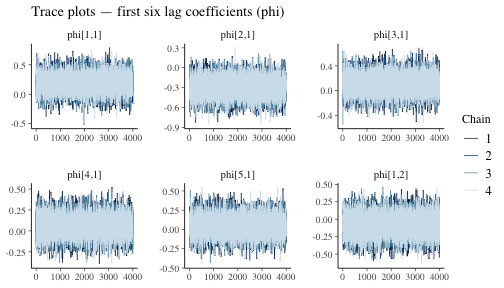
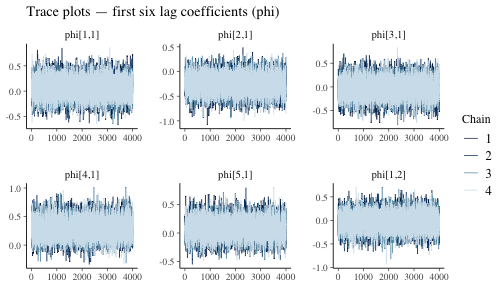
Deploying to gh-pages from @ flo1met/bvarnet@caa0c16dfb547cf6b879a68908194ce86c67e930 🚀

diff --git a/articles/MCMC-Diagnostics.html b/articles/MCMC-Diagnostics.html
@@ -126,7 +126,9 @@ are used throughout.</p>
 <span>  chains   <span class="op">=</span> <span class="fl">4</span>,</span>
 <span>  cores    <span class="op">=</span> <span class="fl">4</span>,</span>
 <span>  seed     <span class="op">=</span> <span class="fl">1337</span></span>
-<span><span class="op">)</span></span></code></pre></div>
+<span><span class="op">)</span></span>
+<span><span class="co">#&gt; Error:</span></span>
+<span><span class="co">#&gt; ! Stan model file "" not found.</span></span></code></pre></div>
 <div class="sourceCode" id="cb4"><pre class="downlit sourceCode r">
 <code class="sourceCode R"><span><span class="fu"><a href="https://rdrr.io/r/base/print.html" class="external-link">print</a></span><span class="op">(</span><span class="va">fit</span><span class="op">)</span></span>
 <span><span class="co">#&gt; BVAR Network fit</span></span>
@@ -134,15 +136,12 @@ are used throughout.</p>
 <span><span class="co">#&gt; Family:      ordinal</span></span>
 <span><span class="co">#&gt; Outcomes (p): 5 </span></span>
 <span><span class="co">#&gt; Lags (K):     1 </span></span>
-<span><span class="co">#&gt; Fixed eff.:   0 </span></span>
-<span><span class="co">#&gt; Observations: 147 </span></span>
+<span><span class="co">#&gt; Fixed eff.:   1 </span></span>
+<span><span class="co">#&gt; Observations: 111 </span></span>
 <span><span class="co">#&gt; Rhat max:    1.001</span></span>
-<span><span class="co">#&gt; Divergences: 1  WARNING: check model/priors.</span></span>
-<span><span class="co">#&gt; Priors:</span></span>
-<span><span class="co">#&gt;   beta   ~ Normal(0, 1)  (default)</span></span>
-<span><span class="co">#&gt;   phi    ~ Normal(0, 0.5)</span></span>
-<span><span class="co">#&gt;   kappa  ~ Normal(0, 1)</span></span>
-<span><span class="co">#&gt; Total time:  12.4 sec</span></span>
+<span><span class="co">#&gt; Divergences: 2  WARNING: check model/priors.</span></span>
+<span><span class="co">#&gt; Priors:       beta ~ Normal(0, 1), phi ~ Normal(0, 0.5), kappa ~ Normal(0, 2) (all defaults)</span></span>
+<span><span class="co">#&gt; Total time:  11.4 sec</span></span>
 <span><span class="co">#&gt; ========================================</span></span></code></pre></div>
 <hr>
 </div>
@@ -166,19 +165,19 @@ data frame with one row per parameter, alongside bulk-ESS and
 tail-ESS.</p>
 <div class="sourceCode" id="cb5"><pre class="downlit sourceCode r">
 <code class="sourceCode R"><span><span class="fu"><a href="https://rdrr.io/r/utils/head.html" class="external-link">head</a></span><span class="op">(</span><span class="va">fit</span><span class="op">$</span><span class="va">convergence</span><span class="op">)</span></span>
-<span><span class="co">#&gt;   variable      rhat ess_bulk  ess_tail</span></span>
-<span><span class="co">#&gt; 1     lp__ 1.0006264  5807.04  8763.894</span></span>
-<span><span class="co">#&gt; 2 phi[1,1] 1.0002434 19633.01 11959.170</span></span>
-<span><span class="co">#&gt; 3 phi[2,1] 0.9999424 16400.52 11459.448</span></span>
-<span><span class="co">#&gt; 4 phi[3,1] 0.9999472 19919.94 12271.959</span></span>
-<span><span class="co">#&gt; 5 phi[4,1] 1.0001548 29249.05 11530.322</span></span>
-<span><span class="co">#&gt; 6 phi[5,1] 1.0000761 18623.57 12379.016</span></span></code></pre></div>
+<span><span class="co">#&gt;   variable      rhat  ess_bulk  ess_tail</span></span>
+<span><span class="co">#&gt; 1     lp__ 1.0003156  6045.914  9175.511</span></span>
+<span><span class="co">#&gt; 2 phi[1,1] 1.0003620 16772.266 12193.655</span></span>
+<span><span class="co">#&gt; 3 phi[2,1] 1.0000410 12852.768 11468.216</span></span>
+<span><span class="co">#&gt; 4 phi[3,1] 1.0001652 13704.433 12188.622</span></span>
+<span><span class="co">#&gt; 5 phi[4,1] 0.9999057 19347.832 13118.487</span></span>
+<span><span class="co">#&gt; 6 phi[5,1] 1.0002715 16984.342 12402.253</span></span></code></pre></div>
 <p>A quick summary of the R-hat distribution across all parameters:</p>
 <div class="sourceCode" id="cb6"><pre class="downlit sourceCode r">
 <code class="sourceCode R"><span><span class="va">rhat_vals</span> <span class="op">&lt;-</span> <span class="va">fit</span><span class="op">$</span><span class="va">convergence</span><span class="op">$</span><span class="va">rhat</span></span>
 <span><span class="fu"><a href="https://rdrr.io/r/base/summary.html" class="external-link">summary</a></span><span class="op">(</span><span class="va">rhat_vals</span><span class="op">)</span></span>
 <span><span class="co">#&gt;    Min. 1st Qu.  Median    Mean 3rd Qu.    Max. </span></span>
-<span><span class="co">#&gt;  0.9999  1.0000  1.0001  1.0001  1.0002  1.0007</span></span></code></pre></div>
+<span><span class="co">#&gt;  0.9999  1.0001  1.0002  1.0002  1.0003  1.0007</span></span></code></pre></div>
 <hr>
 </div>
 <div class="section level2">
@@ -213,10 +212,10 @@ tail-ESS.</p>
 <span></span>
 <span><span class="fu"><a href="https://rdrr.io/r/base/cat.html" class="external-link">cat</a></span><span class="op">(</span><span class="st">"Bulk ESS — min:"</span>, <span class="fu"><a href="https://rdrr.io/r/base/Round.html" class="external-link">round</a></span><span class="op">(</span><span class="fu"><a href="https://rdrr.io/r/base/Extremes.html" class="external-link">min</a></span><span class="op">(</span><span class="va">ess_bulk</span>, na.rm <span class="op">=</span> <span class="cn">TRUE</span><span class="op">)</span><span class="op">)</span>,</span>
 <span>    <span class="st">"  median:"</span>, <span class="fu"><a href="https://rdrr.io/r/base/Round.html" class="external-link">round</a></span><span class="op">(</span><span class="fu"><a href="https://rdrr.io/r/stats/median.html" class="external-link">median</a></span><span class="op">(</span><span class="va">ess_bulk</span>, na.rm <span class="op">=</span> <span class="cn">TRUE</span><span class="op">)</span><span class="op">)</span>, <span class="st">"\n"</span><span class="op">)</span></span>
-<span><span class="co">#&gt; Bulk ESS — min: 5807   median: 18210</span></span>
+<span><span class="co">#&gt; Bulk ESS — min: 6046   median: 16313</span></span>
 <span><span class="fu"><a href="https://rdrr.io/r/base/cat.html" class="external-link">cat</a></span><span class="op">(</span><span class="st">"Tail ESS — min:"</span>, <span class="fu"><a href="https://rdrr.io/r/base/Round.html" class="external-link">round</a></span><span class="op">(</span><span class="fu"><a href="https://rdrr.io/r/base/Extremes.html" class="external-link">min</a></span><span class="op">(</span><span class="va">ess_tail</span>, na.rm <span class="op">=</span> <span class="cn">TRUE</span><span class="op">)</span><span class="op">)</span>,</span>
 <span>    <span class="st">"  median:"</span>, <span class="fu"><a href="https://rdrr.io/r/base/Round.html" class="external-link">round</a></span><span class="op">(</span><span class="fu"><a href="https://rdrr.io/r/stats/median.html" class="external-link">median</a></span><span class="op">(</span><span class="va">ess_tail</span>, na.rm <span class="op">=</span> <span class="cn">TRUE</span><span class="op">)</span><span class="op">)</span>, <span class="st">"\n"</span><span class="op">)</span></span>
-<span><span class="co">#&gt; Tail ESS — min: 8764   median: 12304</span></span>
+<span><span class="co">#&gt; Tail ESS — min: 9176   median: 12179</span></span>
 <span><span class="fu"><a href="https://rdrr.io/r/base/cat.html" class="external-link">cat</a></span><span class="op">(</span><span class="st">"Parameters with bulk ESS &lt; 400:"</span>, <span class="fu"><a href="https://rdrr.io/r/base/sum.html" class="external-link">sum</a></span><span class="op">(</span><span class="va">ess_bulk</span> <span class="op">&lt;</span> <span class="fl">400</span>, na.rm <span class="op">=</span> <span class="cn">TRUE</span><span class="op">)</span>, <span class="st">"\n"</span><span class="op">)</span></span>
 <span><span class="co">#&gt; Parameters with bulk ESS &lt; 400: 0</span></span></code></pre></div>
 <hr>
@@ -266,10 +265,10 @@ stored in <code>fit$diagnostics</code>:</p>
 <div class="sourceCode" id="cb11"><pre class="downlit sourceCode r">
 <code class="sourceCode R"><span><span class="va">fit</span><span class="op">$</span><span class="va">diagnostics</span></span>
 <span><span class="co">#&gt;   num_divergent num_max_treedepth     ebfmi</span></span>
-<span><span class="co">#&gt; 1             0                 0 0.8941142</span></span>
-<span><span class="co">#&gt; 2             0                 0 0.9862093</span></span>
-<span><span class="co">#&gt; 3             0                 0 0.9318894</span></span>
-<span><span class="co">#&gt; 4             1                 0 0.9390785</span></span></code></pre></div>
+<span><span class="co">#&gt; 1             1                 0 1.0091569</span></span>
+<span><span class="co">#&gt; 2             0                 0 0.9950769</span></span>
+<span><span class="co">#&gt; 3             0                 0 0.9159342</span></span>
+<span><span class="co">#&gt; 4             1                 0 0.9861207</span></span></code></pre></div>
 <div class="section level3">
 <h3 id="divergences">Divergences<a class="anchor" aria-label="anchor" href="#divergences"></a>
 </h3>
@@ -347,9 +346,6 @@ inference.</td>
 <code>iter</code> directly improves ESS at a proportional computational
 cost. Increasing <code>warmup</code> can help when the sampler struggles
 to find the typical set (visible as a long burn-in in trace plots).</p>
-<p>A practical rule: start with <code>warmup = 1000, iter = 2000</code>
-for exploration, then increase to <code>iter = 4000</code> (or more) for
-final inference.</p>
 </div>
 <div class="section level3">
 <h3 id="adapt_delta-controlling-divergences">

diff --git a/articles/Hypothesis-Testing.html b/articles/Hypothesis-Testing.html
@@ -110,7 +110,9 @@ they are</p>
 <span>  chains <span class="op">=</span> <span class="fl">4</span>,</span>
 <span>  cores <span class="op">=</span> <span class="fl">4</span>,</span>
 <span>  seed <span class="op">=</span> <span class="fl">1337</span></span>
-<span><span class="op">)</span></span></code></pre></div>
+<span><span class="op">)</span></span>
+<span><span class="co">#&gt; Error:</span></span>
+<span><span class="co">#&gt; ! Stan model file "" not found.</span></span></code></pre></div>
 </div>
 <div class="section level2">
 <h2 id="model-output">Model Output<a class="anchor" aria-label="anchor" href="#model-output"></a>

diff --git a/articles/MCMC-Diagnostics.md b/articles/MCMC-Diagnostics.md
@@ -62,6 +62,8 @@ fit <- bvar(
   cores    = 4,
   seed     = 1337
 )
+#> Error:
+#> ! Stan model file "" not found.
 ```
 
 ``` r
@@ -71,15 +73,12 @@ print(fit)
 #> Family:      ordinal
 #> Outcomes (p): 5 
 #> Lags (K):     1 
-#> Fixed eff.:   0 
-#> Observations: 147 
+#> Fixed eff.:   1 
+#> Observations: 111 
 #> Rhat max:    1.001
-#> Divergences: 1  WARNING: check model/priors.
-#> Priors:
-#>   beta   ~ Normal(0, 1)  (default)
-#>   phi    ~ Normal(0, 0.5)
-#>   kappa  ~ Normal(0, 1)
-#> Total time:  12.4 sec
+#> Divergences: 2  WARNING: check model/priors.
+#> Priors:       beta ~ Normal(0, 1), phi ~ Normal(0, 0.5), kappa ~ Normal(0, 2) (all defaults)
+#> Total time:  11.4 sec
 #> ========================================
 ```
 
@@ -101,13 +100,13 @@ with one row per parameter, alongside bulk-ESS and tail-ESS.
 
 ``` r
 head(fit$convergence)
-#>   variable      rhat ess_bulk  ess_tail
-#> 1     lp__ 1.0006264  5807.04  8763.894
-#> 2 phi[1,1] 1.0002434 19633.01 11959.170
-#> 3 phi[2,1] 0.9999424 16400.52 11459.448
-#> 4 phi[3,1] 0.9999472 19919.94 12271.959
-#> 5 phi[4,1] 1.0001548 29249.05 11530.322
-#> 6 phi[5,1] 1.0000761 18623.57 12379.016
+#>   variable      rhat  ess_bulk  ess_tail
+#> 1     lp__ 1.0003156  6045.914  9175.511
+#> 2 phi[1,1] 1.0003620 16772.266 12193.655
+#> 3 phi[2,1] 1.0000410 12852.768 11468.216
+#> 4 phi[3,1] 1.0001652 13704.433 12188.622
+#> 5 phi[4,1] 0.9999057 19347.832 13118.487
+#> 6 phi[5,1] 1.0002715 16984.342 12402.253
 ```
 
 A quick summary of the R-hat distribution across all parameters:
@@ -116,7 +115,7 @@ A quick summary of the R-hat distribution across all parameters:
 rhat_vals <- fit$convergence$rhat
 summary(rhat_vals)
 #>    Min. 1st Qu.  Median    Mean 3rd Qu.    Max. 
-#>  0.9999  1.0000  1.0001  1.0001  1.0002  1.0007
+#>  0.9999  1.0001  1.0002  1.0002  1.0003  1.0007
 ```
 
 ------------------------------------------------------------------------
@@ -138,10 +137,10 @@ ess_tail <- fit$convergence$ess_tail
 
 cat("Bulk ESS — min:", round(min(ess_bulk, na.rm = TRUE)),
     "  median:", round(median(ess_bulk, na.rm = TRUE)), "\n")
-#> Bulk ESS — min: 5807   median: 18210
+#> Bulk ESS — min: 6046   median: 16313
 cat("Tail ESS — min:", round(min(ess_tail, na.rm = TRUE)),
     "  median:", round(median(ess_tail, na.rm = TRUE)), "\n")
-#> Tail ESS — min: 8764   median: 12304
+#> Tail ESS — min: 9176   median: 12179
 cat("Parameters with bulk ESS < 400:", sum(ess_bulk < 400, na.rm = TRUE), "\n")
 #> Parameters with bulk ESS < 400: 0
 ```
@@ -206,10 +205,10 @@ in `fit$diagnostics`:
 ``` r
 fit$diagnostics
 #>   num_divergent num_max_treedepth     ebfmi
-#> 1             0                 0 0.8941142
-#> 2             0                 0 0.9862093
-#> 3             0                 0 0.9318894
-#> 4             1                 0 0.9390785
+#> 1             1                 0 1.0091569
+#> 2             0                 0 0.9950769
+#> 3             0                 0 0.9159342
+#> 4             1                 0 0.9861207
 ```
 
 ### Divergences
@@ -259,10 +258,6 @@ The total number of draws available for inference is `iter × chains` (16
 a proportional computational cost. Increasing `warmup` can help when the
 sampler struggles to find the typical set (visible as a long burn-in in
 trace plots).
-
-A practical rule: start with `warmup = 1000, iter = 2000` for
-exploration, then increase to `iter = 4000` (or more) for final
-inference.
 
 ### `adapt_delta`: Controlling Divergences
 

diff --git a/articles/Hypothesis-Testing.md b/articles/Hypothesis-Testing.md
@@ -45,6 +45,8 @@ fit <- bvar(
   cores = 4,
   seed = 1337
 )
+#> Error:
+#> ! Stan model file "" not found.
 ```
 
 ## Model Output